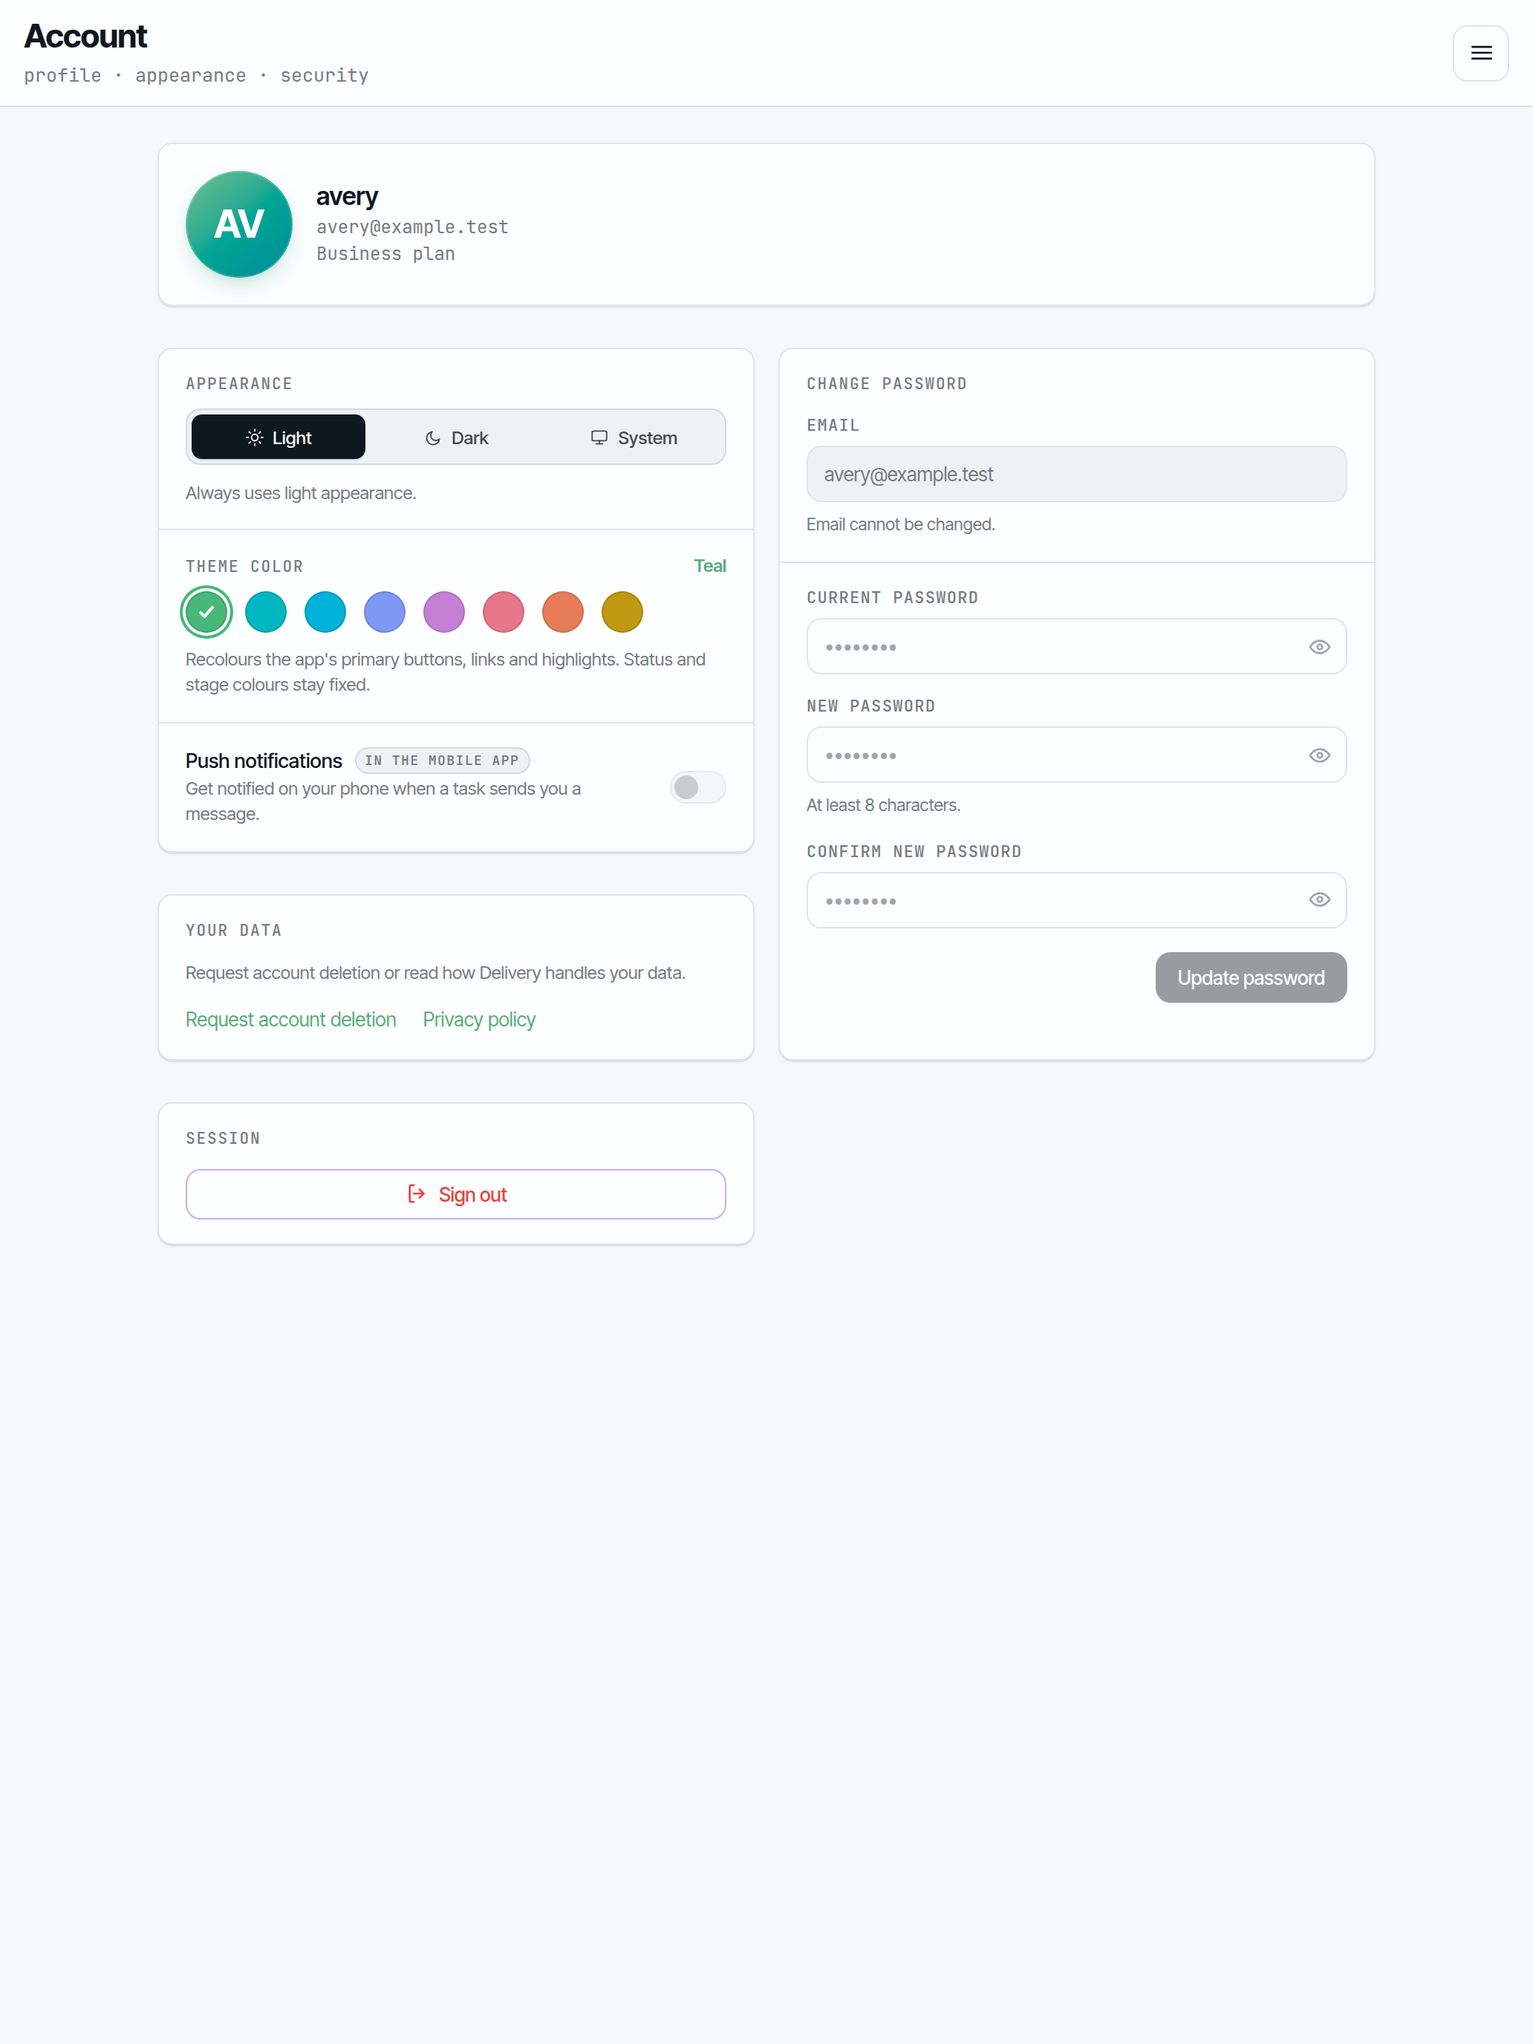
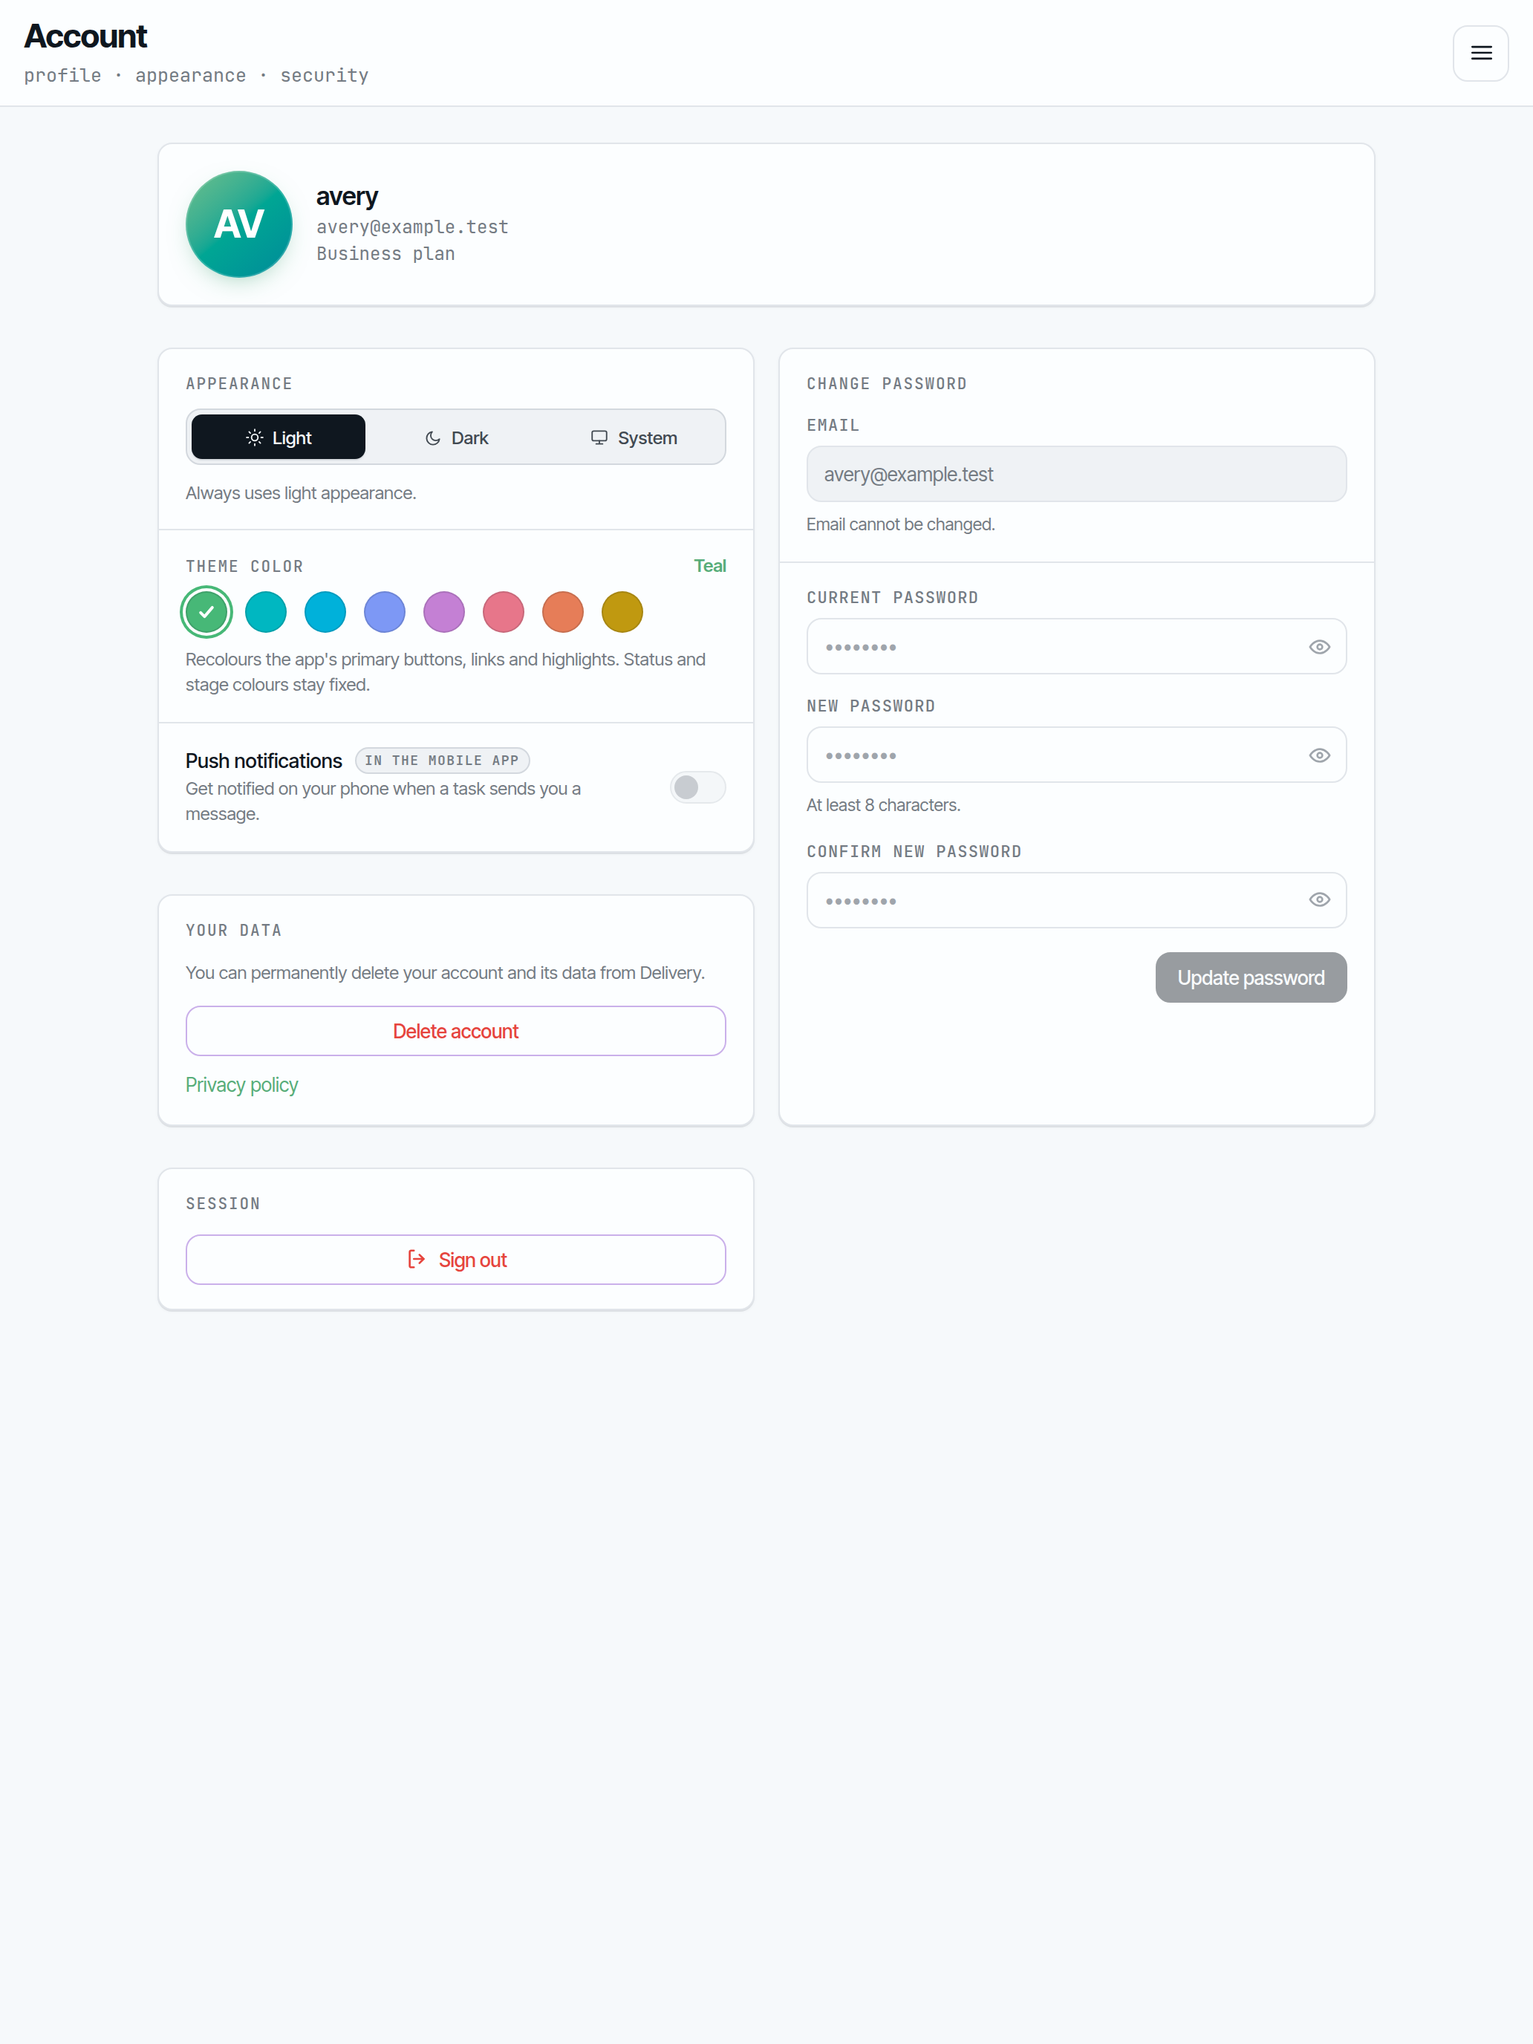
docs(store): update account deletion guidance and review assets

Changed region(s): [[0.124, 0.4688, 0.4651, 0.5938], [0.2481, 0.5625, 0.3411, 0.625]]

diff --git a/web-documents/account-deletion.html b/web-documents/account-deletion.html
@@ -8,9 +8,10 @@
 </head>
 <body><main>
   <h1>Delete a Delivery account</h1>
-  <p>To request deletion of your Delivery account and associated cloud data, email <a href="mailto:info.iowetea@gmail.com?subject=Delivery%20account%20deletion%20request">info.iowetea@gmail.com</a> from the email address on your account. Put “Delivery account deletion request” in the subject. If you cannot use that email address, contact us and we will arrange another way to verify ownership.</p>
-  <p>We will confirm your identity before deleting an account. Account deletion removes access to the Delivery dashboard. It may also affect connected development machines, task history, project data, and registered notification devices. Ask us if you need an export or help disconnecting a machine before deletion.</p>
-  <p>We will explain what we can delete and any records we must retain before completing the request. Data stored on your own machines or in external services, such as repository and agent providers, may need to be removed separately.</p>
+  <p>If you can sign in, open <a href="https://delivery.iowetea.com/account">Delivery → Account</a>, select <strong>Delete account</strong>, and confirm your account email and password. The action permanently removes your Delivery account and associated data on Delivery's server. You will be signed out.</p>
+  <p>If you cannot sign in or have already uninstalled the app, request deletion by emailing <a href="mailto:info.iowetea@gmail.com?subject=Delivery%20account%20deletion%20request">info.iowetea@gmail.com</a> from the email address on your account. Put “Delivery account deletion request” in the subject. If you cannot use that address, contact us to arrange another way to verify ownership. We will confirm when manual deletion is complete.</p>
+  <p>Account deletion removes dashboard access, task history, uploaded files, connected machine records, and registered notification devices from Delivery's server. Ask us if you need an export or help disconnecting a machine before deletion.</p>
+  <p>For email requests, we will explain any records we must retain before completing deletion. Data stored on your own machines or in external services, such as repository and agent providers, may need to be removed separately.</p>
   <p>Uninstalling the mobile app or switching off notifications does not delete your account.</p>
   <nav><a href="privacy-policy.html">Privacy policy</a> · <a href="support.html">Support</a></nav>
 </main></body>

diff --git a/web-documents/privacy-policy.html b/web-documents/privacy-policy.html
@@ -19,7 +19,7 @@
   <h2>Storage and security</h2>
   <p>Delivery stores service data on its backend and sends it between the dashboard, backend, and your connected machines as needed for the service. Connections to the hosted dashboard use HTTPS. Access to account data requires sign-in. No online service can guarantee absolute security.</p>
   <h2>Your choices and deletion</h2>
-  <p>You can disable phone notifications and sign out of the app. To request access, correction, export, or deletion of your Delivery account data, email the address above. See the <a href="account-deletion.html">account deletion instructions</a>. Deleting Delivery data does not automatically remove copies held on your machines or in external provider accounts.</p>
+  <p>You can disable phone notifications and sign out of the app. To delete your account, sign in and use <strong>Account → Delete account</strong>; you will confirm your email and password before permanent deletion. If you cannot sign in, use the email route in the <a href="account-deletion.html">account deletion instructions</a>. To request access, correction, or export, email the address above. Deleting Delivery data does not automatically remove copies held on your machines or in external provider accounts.</p>
   <h2>Changes</h2>
   <p>We may update this policy when the service changes. The date at the top shows the latest revision.</p>
   <nav><a href="support.html">Support</a> · <a href="account-deletion.html">Account deletion</a></nav>

diff --git a/web-documents/support.html b/web-documents/support.html
@@ -15,6 +15,6 @@
   <p>A Delivery account is needed to use the dashboard. If you need access or cannot sign in, contact the support address above. The app does not currently offer self-service sign-up.</p>
   <h2>Notifications</h2>
   <p>When available on your account, you can manage task notifications on the dashboard's Account page. You can also change notification permission in your phone settings.</p>
-  <nav><a href="privacy-policy.html">Privacy policy</a> · <a href="account-deletion.html">Request account deletion</a></nav>
+  <nav><a href="privacy-policy.html">Privacy policy</a> · <a href="account-deletion.html">Delete account</a></nav>
 </main></body>
 </html>

diff --git a/store/app-store/CONNECT.md b/store/app-store/CONNECT.md
@@ -20,10 +20,9 @@ or App Store Connect. Build the `prod` flavor of `../delivery-app`.
    notifications** and **Background fetch**. Confirm the `prod` scheme uses
    `app.iowetea.delivery` and a matching distribution profile/certificate.
 4. Confirm the *signed Release-prod archive* has an `aps-environment`
-   entitlement of `production`. The current source `Runner.entitlements`
-   says `development`; do not assume the uploaded archive is correct without
-   checking its signed entitlements. Refresh provisioning after changing
-   capabilities.
+   entitlement of `production`. The source `Runner.entitlements` now says
+   `production`, but the uploaded archive's signed entitlement still needs
+   checking. Refresh provisioning after changing capabilities.
 5. In **Apple Developer → Keys**, create an APNs authentication key with APNs
    enabled. Download the `.p8` once and record the Key ID and Team ID
    privately. In **Firebase console → Project settings → Cloud Messaging →
@@ -102,15 +101,14 @@ data or private repository names.
   account email/profile, task text/messages, machine/repository information,
   uploads, device identifier, FCM token, and connected providers. State
   actual collection, sharing, purposes, tracking, and data linked to users.
-- **Account deletion:** accounts are manually provisioned. The Account page
-  has a button linking to an email deletion-request page; there is no in-app
-  deletion action. Apple's rule applies to apps that support account creation,
-  including account creation outside the app. Its guidance allows manual
-  processing time but says apps outside highly regulated industries should not
-  require an email or support flow when the rule applies. Confirm with App
-  Review whether manual provisioning keeps this app outside that requirement;
-  otherwise implement a direct deletion-request flow before submission. Do not
-  claim immediate or self-service deletion.
+- **Account deletion:** after the new frontend and backend changes are shipped,
+  Account → Delete account asks the signed-in user to confirm their email and
+  password, then removes the account, backend data, uploaded files, connected
+  machines, and account branches. Test this with a disposable account in the
+  final build; the action cannot be undone. The public deletion page retains
+  an email route for users who cannot sign in. Copies on users' own machines
+  or external providers are outside Delivery's server cleanup. Do not claim
+  that those copies are automatically deleted.
 - **Export compliance:** answer encryption questions for the actual build and
   its HTTPS/Firebase traffic. Set any Info.plist exemption key only after
   determining the correct classification.
@@ -118,9 +116,20 @@ data or private repository names.
   and international phone. Select **Sign-in required** and enter a working
   dedicated review username/password in App Store Connect only. Keep sample
   projects/tasks and any needed connected resources available throughout
-  review. In Notes, explain how to reach Tasks and test notifications. Supply
-  a stable review setup or supporting video for features needing external
-  machines. The public landing page is not a demo of the signed-in dashboard.
+  review. Create a **second disposable review account** so Apple can test
+  Account → Delete account without destroying the main review setup. Put its
+  credentials only in the private Notes field. Supply a stable review setup or
+  supporting video for features needing external machines. The public landing
+  page is not a demo of the signed-in dashboard.
+
+Suggested **Notes for Review** (replace bracketed details after testing the
+uploaded build; enter credentials only in App Store Connect):
+
+```text
+Delivery opens the hosted development dashboard. Use the main review account in the Sign-in required fields to view sample projects and tasks. Open Tasks to inspect the task page. On Account, enable push notifications on a physical iPhone; a sample task can send a message or become blocked to demonstrate an alert. [Describe the exact sample task and any machine steps that are available to the reviewer.]
+
+Account deletion is at Account → Delete account. To test it, use the separate disposable account listed here: [enter its username and password in this private field]. Confirm its email and password in the deletion dialog. This permanently deletes that disposable account; the main review account remains available. The public deletion page also offers an email route for users unable to sign in.
+```
 
 Publish this repository through GitHub Pages before entering the URLs. Open
 the support, privacy, and deletion pages in a private browser, and review
@@ -130,7 +139,7 @@ production service.
 ## 5. Upload, test, and submit
 
 1. On the Mac, update the version/build number, install Flutter/CocoaPods
-   dependencies, and test login, attachments, external links, deletion link,
+   dependencies, and test login, attachments, external links, account deletion,
    icon, and notifications on physical iPhone; check iPad layout too.
 2. From `../delivery-app`, run `flutter build ipa --flavor prod --release`,
    or archive the `prod` scheme in Xcode. Validate bundle ID, production

diff --git a/store/google-play/CONSOLE.md b/store/google-play/CONSOLE.md
@@ -81,18 +81,21 @@ actually support and can verify; this repo currently has a phone set.
 - **App access:** mark that part of the app requires sign-in. Enter a
   dedicated review account's username/password in the **private Play Console
   fields**, plus instructions to view sample tasks and test alerts. Keep
-  needed sample machines/agents online during review. The public landing
+  a second disposable account available for reviewers to test permanent
+  account deletion without losing the main review account. Keep needed sample
+  machines/agents online during review. The public landing
   page is not signed-in dashboard access; there is no built-in demo.
 - **Privacy policy and Data safety:** publish the policy URL, then audit the
   final app *and hosted dashboard/backend*. Include account email/profile,
   tasks/messages, connected machine/repository data, uploads, device ID,
   FCM token, and connected providers. Answer collection, sharing, encryption
   in transit, retention, and deletion from actual behavior.
-- **Account deletion:** accounts are manually provisioned. The Account page
-  links to an email deletion-request page. Describe this accurately if Play
-  asks about account creation/deletion and verify the public URL. Do not
-  claim immediate or in-app self-service deletion. Confirm the actual account
-  model and request flow meet the current Play rule.
+- **Account deletion:** after the new frontend and backend changes are shipped,
+  signed-in users can delete their account from Account after confirming their
+  email and password. Test this with a disposable account. The public URL
+  above still offers an email request route for people who cannot sign in;
+  Play requires an external web route even when deletion is available in-app.
+  State that copies on users' own machines or external providers may remain.
 - **Ads, target audience, and content rating:** answer from the real release
   and intended users. No ad SDK appears in the Flutter pubspec, but check the
   hosted dashboard too. Complete any other declarations the console shows
@@ -111,7 +114,8 @@ the production service.
 
 1. Upload the signed production AAB to **Test and release → Testing →
    Internal testing**, configure testers, and install from Play. Check sign-in,
-   attachments, external links, deletion link, icon, and FCM delivery.
+   attachments, external links, account deletion with a disposable account,
+   icon, and FCM delivery.
 2. If this is a **personal** Play developer account created after **13
    November 2023**, run the required **closed test with at least 12 testers
    continuously opted in for at least 14 days**, then apply for production

diff --git a/store/README.md b/store/README.md
@@ -50,12 +50,15 @@ submission. Replace any image whose layout or safe area differs from the app.
    browser rendering does not capture native safe areas or system chrome.
    Use a dedicated review account with sample tasks and no private data for
    any replacement captures. Keep the final files in the same directories.
-2. Provide reviewers working account credentials and any machine resources
-   needed to exercise the app. There is currently no built-in demo mode.
-3. Verify the Account page's deletion-request link in the final app. The
-   public page offers an email route; there is no direct deletion action.
-   Confirm the stores' account-deletion answers reflect manual account
-   provisioning and this request flow.
+2. Provide reviewers a working main account, a separate disposable account
+   for testing permanent deletion, and any machine resources needed to
+   exercise the app. There is currently no built-in demo mode. Enter both
+   accounts' credentials only in the private store review fields.
+3. After shipping the new account-deletion endpoint and Account page, verify
+   direct deletion using a disposable account in the final app. Confirm its
+   backend rows, uploaded files, machine connections, and account branches are
+   removed. The public page offers an email fallback for users who cannot
+   sign in; verify that route too.
 4. Review all three public pages, especially the privacy policy's operator,
    retention, and provider disclosures, against the production service.
    Publish this repo with GitHub Pages, then open each URL in a private browser.

diff --git a/CONTEXT.md b/CONTEXT.md
@@ -9,9 +9,10 @@ The store package and bundle ID for the production app is
 `app.iowetea.delivery`. Store listing claims must describe current behavior:
 the app displays the hosted Delivery dashboard and can register a phone for
 task push notifications. Account creation is currently manual, the dashboard
-links to an account deletion request page, and there is no review demo mode.
-The deletion request is handled by email; keep that clear in the store
-worksheets until a direct deletion flow exists.
+offers password-confirmed account deletion on the Account page, and there is
+no review demo mode. The public deletion page retains an email route for
+people who cannot sign in. Source changes must be shipped before the store
+worksheets describe this as live behavior.
 
 The public support contact used by the current dashboard is
 `info.iowetea@gmail.com`. Legal pages are drafts requiring owner review of the
